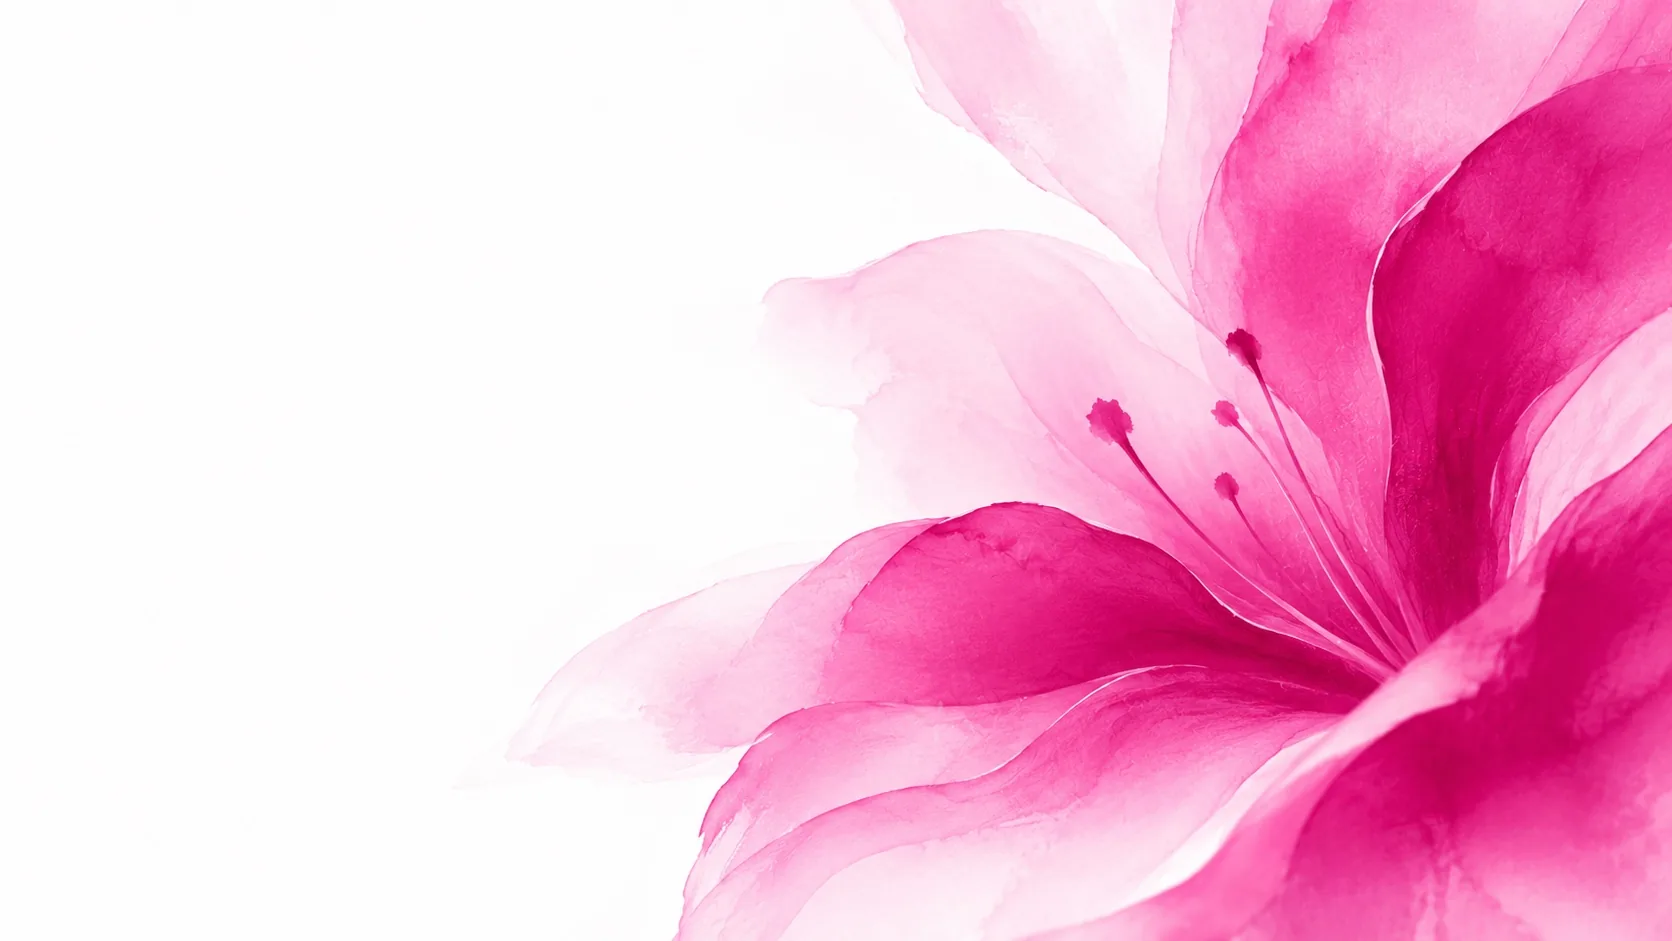
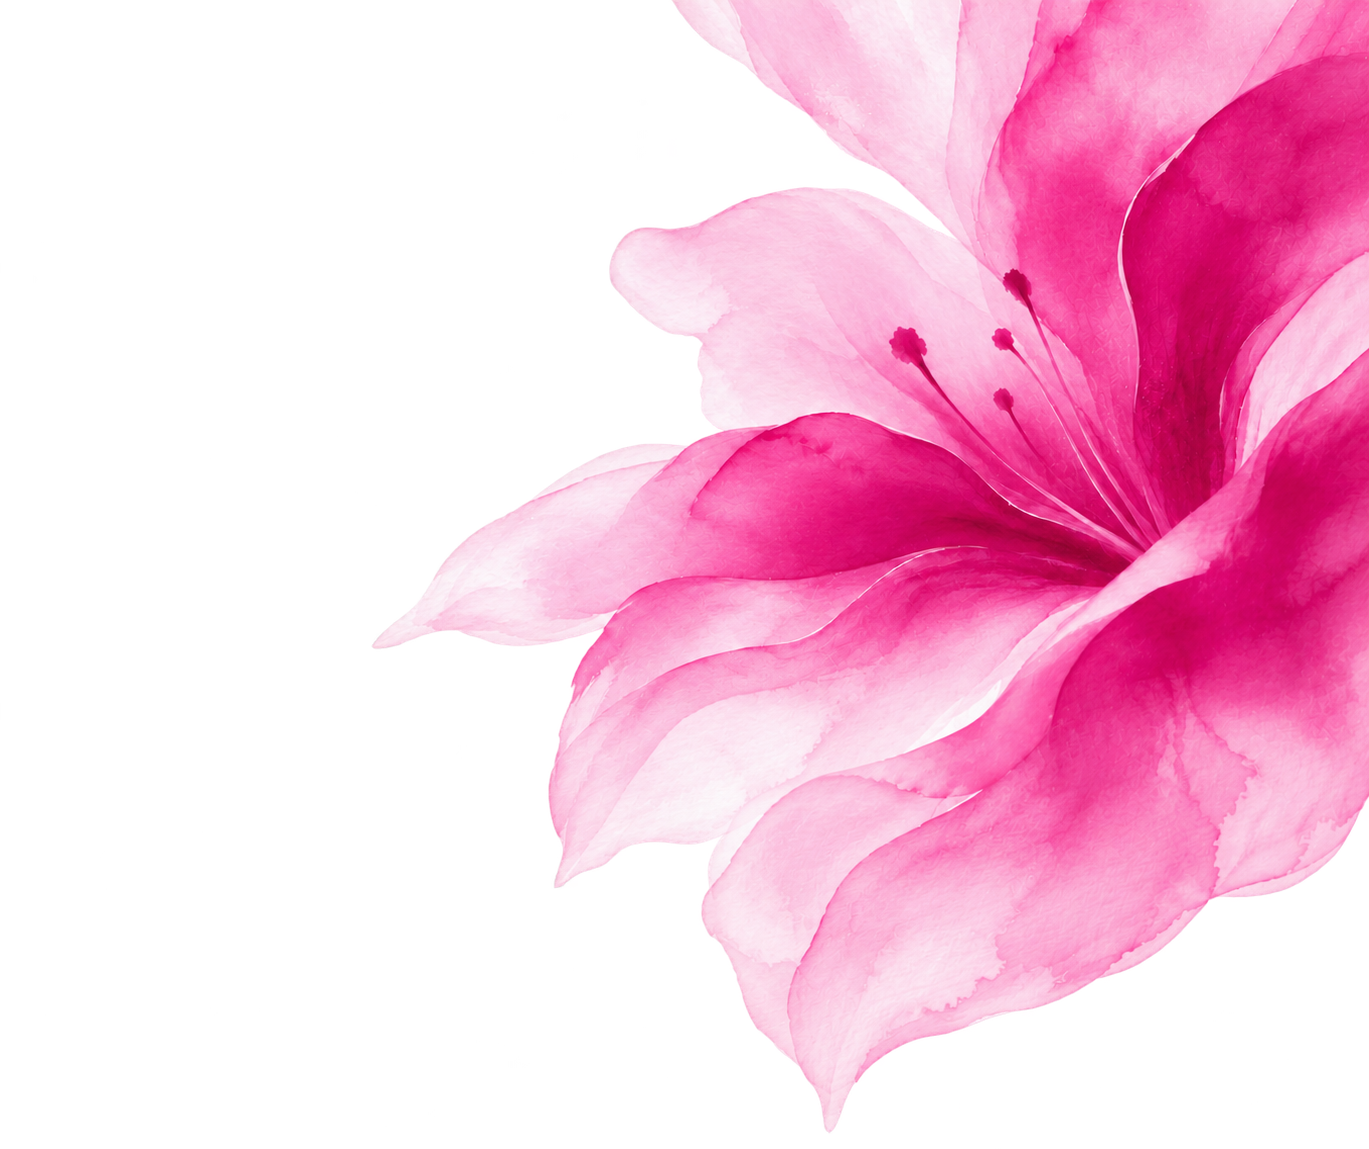
style(landing): preserve flower scale and extend artwork vertically

diff --git a/apps/web/src/styles.css b/apps/web/src/styles.css
@@ -182,12 +182,15 @@ legend { padding: 0; margin-bottom: var(--s2); }
 .land-cta:hover { background: var(--magenta-deep); border-color: var(--magenta-deep); }
 .land-cta.ghost { background: var(--white); color: var(--magenta-deep); border-color: var(--magenta-line); }
 .land-cta.ghost:hover { background: var(--magenta-tint); }
-.hero { max-width: var(--land-max); margin: 0 auto; padding: var(--s7) var(--s5) var(--s7); display: grid; grid-template-columns: 1.45fr 1fr; gap: var(--s6); align-items: center; }
+.hero { position: relative; z-index: 1; max-width: var(--land-max); margin: 0 auto; padding: var(--s7) var(--s5) var(--s7); display: grid; grid-template-columns: 1.45fr 1fr; gap: var(--s6); align-items: center; }
 .hero h1 { font-size: clamp(2.2rem, 4.4vw, 3.5rem); font-weight: 700; line-height: 1.05; letter-spacing: -0.03em; margin-bottom: var(--s5); }
 .hero h1 em { font-style: normal; color: var(--magenta); }
 .hero .lead { font-size: 1.2rem; color: var(--ink-2); max-width: 34em; margin-bottom: var(--s6); }
 .hero .ctas { display: flex; gap: var(--s3); flex-wrap: wrap; }
-.hero-wrap { position: relative; background-color: var(--white); background-image: var(--flower); background-repeat: no-repeat; background-position: right center; background-size: auto 100%; border-bottom: 1px solid var(--line); }
+/* The extended canvas keeps the original 1672/941 display width and lets the
+   transparent lower petals spill beyond the hero without changing flower scale. */
+.hero-wrap { --hero-extension: calc(1672 / 941 * 1149 / 1369); position: relative; z-index: 1; background: var(--white); }
+.hero-wrap::before { content: ""; position: absolute; inset: 0 0 auto; height: calc(100% * var(--hero-extension)); background: var(--flower) right top / auto 100% no-repeat; pointer-events: none; }
 .hero-wrap .hero { min-height: clamp(520px, 62vh, 700px); }
 .hero-side { position: relative; align-self: end; justify-self: end; width: 100%; max-width: 340px; }
 .hero-card { background: rgba(255, 255, 255, 0.94); backdrop-filter: blur(6px); border-radius: var(--radius); padding: var(--s4); box-shadow: 0 18px 50px rgba(122, 15, 85, 0.18); border: 1px solid var(--line); }
@@ -217,9 +220,11 @@ legend { padding: 0; margin-bottom: var(--s2); }
 .land-footer { max-width: var(--land-max); margin: 0 auto; padding: var(--s6) var(--s5) var(--s7); color: var(--muted); font-size: 0.88rem; border-top: 1px solid var(--line); display: flex; gap: var(--s5); flex-wrap: wrap; justify-content: space-between; }
 
 /* section intros on the watercolour flowers */
-.flow-head { position: relative; overflow: hidden; min-height: clamp(380px, 44vw, 560px); display: grid; align-items: center; }
-.flow-head::before { content: ""; position: absolute; inset: 0; background: var(--bg) center / cover no-repeat; transform-origin: 50% 50%; }
-.flow-head-inner { position: relative; width: 100%; max-width: var(--land-max); margin: 0 auto; padding: var(--s7) var(--s5); }
+.flow-head { position: relative; overflow: hidden; min-height: calc(100vw * 941 / 1672 * 1.06 + 48px); display: grid; align-items: center; background: var(--white); }
+/* Keep the original desktop width/scale; extend the section to fit the full height,
+   including the original 1.06 breathing animation and 24 px above and below. */
+.flow-head::before { content: ""; position: absolute; inset: 0; background: var(--bg) center / 100% auto no-repeat; transform-origin: 50% 50%; }
+.flow-head-inner { position: relative; z-index: 2; width: 100%; max-width: var(--land-max); margin: 0 auto; padding: var(--s7) var(--s5); }
 .flow-head-inner > * { max-width: 32rem; }
 .flow-text-right .flow-head-inner { display: flex; flex-direction: column; align-items: flex-end; }
 .flow-head h2 { font-size: clamp(1.7rem, 3.2vw, 2.4rem); font-weight: 700; letter-spacing: -0.03em; line-height: 1.1; margin: 0 0 var(--s4); }
@@ -254,8 +259,8 @@ legend { padding: 0; margin-bottom: var(--s2); }
 .land-help { border: 2px solid var(--danger); border-radius: var(--radius); padding: var(--s4); margin-top: var(--s4); background: var(--white); }
 .land-help p { margin: 0; color: var(--ink) !important; }
 .land-help strong { color: var(--danger); }
-.land-final { position: relative; overflow: hidden; text-align: center; padding: var(--s7) var(--s5); }
-.land-final::before { content: ""; position: absolute; inset: 0; background: var(--bg) right center / cover no-repeat; opacity: 0.45; }
+.land-final { position: relative; overflow: hidden; text-align: center; padding: var(--s7) var(--s5); min-height: calc(100vw * 941 / 1672 * 1.06 + 48px); display: grid; align-items: center; }
+.land-final::before { content: ""; position: absolute; inset: 0; background: var(--bg) right center / 100% auto no-repeat; opacity: 0.45; }
 .land-final-inner { position: relative; max-width: 42rem; margin: 0 auto; padding: var(--s7) var(--s6); border-radius: 40px; background: radial-gradient(closest-side, rgba(255, 255, 255, 0.92), rgba(255, 255, 255, 0.75) 70%, rgba(255, 255, 255, 0)); }
 .land-final h2 { font-size: clamp(1.7rem, 3.2vw, 2.4rem); font-weight: 700; letter-spacing: -0.03em; line-height: 1.1; margin: 0 0 var(--s4); }
 .land-final .intro { color: var(--ink-2); margin-bottom: var(--s5); }
@@ -279,16 +284,17 @@ legend { padding: 0; margin-bottom: var(--s2); }
   .feature { grid-template-columns: 1fr; gap: var(--s5); padding: var(--s4) 0; }
   .feature-right .feature-copy { order: 0; }
   .features { gap: var(--s5); }
-  .flow-head { min-height: 0; }
-  .flow-head::before { opacity: 0.32; }
+  .flow-head { min-height: calc(100vw * 941 / 1672 + 48px); padding-block: 24px; }
+  .flow-head::before { background-size: auto calc(100% - 48px); opacity: 0.32; }
   .flow-text-right .flow-head-inner { align-items: flex-start; }
   .phone-pair { padding-right: 0; }
   .phone-pair .phone-back { display: none; }
   .facts { grid-template-columns: 1fr; }
-  .land-final::before { opacity: 0.3; }
+  .land-final { min-height: calc(100vw * 941 / 1672 + 48px); padding-block: calc(var(--s7) + 24px); }
+  .land-final::before { background-size: auto calc(100% - 48px); opacity: 0.3; }
   .hero { grid-template-columns: 1fr; padding-top: var(--s5); gap: var(--s6); }
-  .hero-wrap { background-image: linear-gradient(to bottom, rgba(255, 255, 255, 0) 210px, #fff 330px), var(--flower); background-size: 100% 100%, auto 340px; background-position: 0 0, right top; }
-  .hero-wrap .hero { min-height: 0; padding-top: 250px; }
+  .hero-wrap::before { height: calc(340px * var(--hero-extension)); }
+  .hero-wrap .hero { min-height: 0; padding-top: calc(274px + 340px * (var(--hero-extension) - 1)); }
   .hero-side { justify-self: stretch; max-width: none; }
     .routes, .facts { grid-template-columns: 1fr; }
     .land-nav a.navlink { display: none; }

diff --git a/apps/web/src/screens/Landing.tsx b/apps/web/src/screens/Landing.tsx
@@ -1,7 +1,7 @@
 import { useEffect, useRef, useState, type MouseEvent, type ReactNode } from "react";
 import { LogoMark, Wordmark } from "../ui/Logo";
 import flowerWebp from "../assets/hero-flower.webp";
-import flowerJpg from "../assets/hero-flower.jpg";
+import flowerPng from "../assets/hero-flower.png";
 import flowerLeft from "../assets/flower-left.webp";
 import flowerRight from "../assets/flower-right.webp";
 import shotPlan from "../assets/shots/plan.webp";
@@ -113,7 +113,7 @@ export function Landing() {
   return (
     <div className="landing" ref={root}>
 
-      <div className="hero-wrap" style={{ ["--flower" as string]: `image-set(url(${flowerWebp}) type("image/webp"), url(${flowerJpg}) type("image/jpeg"))` }}>
+      <div className="hero-wrap" style={{ ["--flower" as string]: `image-set(url(${flowerWebp}) type("image/webp"), url(${flowerPng}) type("image/png"))` }}>
       <nav className="land-nav" aria-label="Site">
         <Wordmark href="#/" />
         <span className="spacer" />
@@ -158,7 +158,7 @@ export function Landing() {
       </div>
 
       <section id="how" aria-labelledby="how-title">
-        <div className="flow-head flow-text-left" style={{ ["--bg" as string]: `url(${flowerRight})` }}>
+        <div className="flow-head flow-text-right" style={{ ["--bg" as string]: `url(${flowerLeft})` }}>
           <div className="flow-head-inner reveal">
             <p className="eyebrow">How it works</p>
             <h2 id="how-title">Your plan becomes the thing that watches over you.</h2>
@@ -224,7 +224,7 @@ export function Landing() {
       </section>
 
       <section id="privacy" className="band" aria-labelledby="privacy-title">
-        <div className="flow-head flow-text-right" style={{ ["--bg" as string]: `url(${flowerLeft})` }}>
+        <div className="flow-head flow-text-left" style={{ ["--bg" as string]: `url(${flowerRight})` }}>
           <div className="flow-head-inner reveal">
             <p className="eyebrow">Hybrid by design</p>
             <h2 id="privacy-title">The model that reads your words lives on your device.</h2>

diff --git a/docs/DECISIONS.md b/docs/DECISIONS.md
@@ -327,3 +327,25 @@ Choices made where a spec was ambiguous (AGENTS.md §1.4). Newest milestones at 
   frame. There are no iOS screens because the iOS app is not built yet. Rows reveal on
   scroll, phones slide in and float gently, the flowers slowly breathe, numbers count up;
   everything is static for `prefers-reduced-motion`.
+
+## Landing flowers: vertical framing
+
+- Retained the original layout, Syne/Outfit typography, colours and side-entering
+  watercolour backgrounds. The earlier standalone flower/Inter redesign was reverted
+  at the owner's request and was never pushed.
+- Extended the original hero artwork downward to complete its lower petals, keeping
+  the intentional top and right crops. The extended 1369 × 1149 canvas is rendered at
+  the original 1672/941 display-width ratio; the larger canvas does not shrink the
+  flower. A transparent layer lets the lower petals overlap below the desktop hero.
+  On mobile the flower keeps its original display width and the copy moves down to
+  leave room for the extended petals. Text and links stay above the decoration.
+  The divider under the hero is removed so the petals flow into the next section.
+- Section backgrounds retain their original rendered scale. On desktop, extend section
+  height to fit the full width-sized image and its existing 1.06 scale animation, with
+  24 px of vertical space on either side. On mobile, extend each section to at least
+  its full original background height plus 48 px, retaining its original scale.
+  Artwork stays on its original side; flowers are not shrunk to fit shorter sections.
+- The completed hero uses lossless WebP with a transparent PNG fallback to preserve
+  paint texture and avoid an opaque rectangle covering the following section.
+- Swapped the how-it-works and privacy backgrounds, along with their copy alignment,
+  so each heading stays on the image's open side.

diff --git a/docs/09_BUILD_PLAN.md b/docs/09_BUILD_PLAN.md
@@ -172,6 +172,7 @@ Read: `docs/10_EVALUATION.md`.
       *(Done for metrics 1–6, 8 (code), 9 (keywords), 10. Metrics 7, 8 (labels), 11, 12 need Gemini Nano in Chrome: `#/eval_g`. 13 needs iOS.)*
 - [x] Copy review against `docs/01_PRODUCT.md` §7.
 - [x] Accessibility: text contrast, tap targets of at least 44 pt, screen-reader labels on controls.
+- [x] Landing flowers: preserve original sizing, side backgrounds and typography; complete the hero's lower petals, extend sections vertically, and swap the how/privacy artwork.
 - [x] README: how to run, what is simulated, what is real, privacy summary, limitations.
 
 ## M12 · Submission
